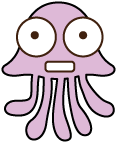
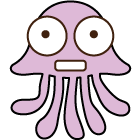
Playerのテクスチャーがゲーム状態の変化に合わせて変わるよ。

diff --git a/NGGFirstGame/NGGGameScene.m b/NGGFirstGame/NGGGameScene.m
@@ -57,15 +57,28 @@
 }
 
 #pragma mark - player control
+- (void)changePlayerToNomarlTexture
+{
+    [self.player setTexture:[SKTexture textureWithImageNamed:@"player"]];
+}
+
 - (void)jump
 {
     NSLog(@"JUMP");
     self.player.physicsBody.velocity = CGVectorMake(0, kPlayerJumpPower);
+    [self.player setTexture:[SKTexture textureWithImageNamed:@"player1"]];
+    [self.player runAction:[SKAction sequence:@[[SKAction waitForDuration:0.2], [SKAction performSelector:@selector(changePlayerToNomarlTexture) onTarget:self]]]];
+}
+
+- (void)changePlayerToDeadTexture
+{
+    [self.player setTexture:[SKTexture textureWithImageNamed:@"player2"]];
 }
 
 - (void)resetPlayer
 {
     [self.player removeAllActions];
+    [self changePlayerToNomarlTexture];
     self.player.position = CGPointMake(CGRectGetMidX(self.frame), CGRectGetMidY(self.frame));
     [self.player runAction:[SKAction rotateToAngle:DEGREES_TO_RADIANS(-10) duration:0]];
     self.player.physicsBody.velocity = CGVectorMake(0, 0);
@@ -215,7 +228,7 @@
     if (self.state == GAME_STATE_PLAYING) {
         self.state = GAME_STATE_DEAD;
         NSLog(@"DEAD");
-        
+        [self changePlayerToDeadTexture];
         [self stopPolesAction];
         [self shakeScreen];
         
